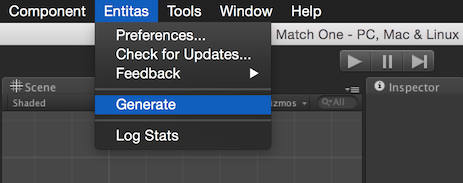
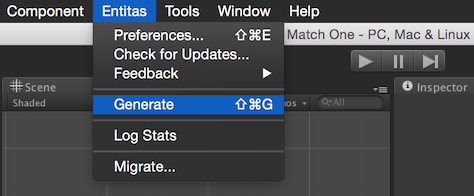
Updated screenshots

Changed region(s): [[0.0, 0.0, 1.0, 1.0], [0.1814, 0.8197, 0.6048, 0.929]]

diff --git a/README.md b/README.md
@@ -32,7 +32,7 @@ Entitas is a super fast Entity Component System Framework (ECS) specifically mad
     <a href="https://dev.windows.com">
         <img src="https://raw.githubusercontent.com/sschmid/Entitas-CSharp/develop/Readme/Images/csharp.png" alt="CSharp" height="64"></a>
     <a href="http://unity3d.com">
-        <img src="https://raw.githubusercontent.com/sschmid/Entitas-CSharp/develop/Readme/Images/WorksWithUnity.png" alt="Unity3d" height="64"></a>
+        <img src="https://raw.githubusercontent.com/sschmid/Entitas-CSharp/develop/Readme/Images/MadeForUnity.png" alt="Unity3d" height="64"></a>
     <a href="http://unity3d.com/unite/archive/2015">
         <img src="https://raw.githubusercontent.com/sschmid/Entitas-CSharp/develop/Readme/Images/UniteEurope2015.png" alt="Unite Europe 2015" height="64"></a>
     <a href="http://unity3d.com/unite/archive/2015">
